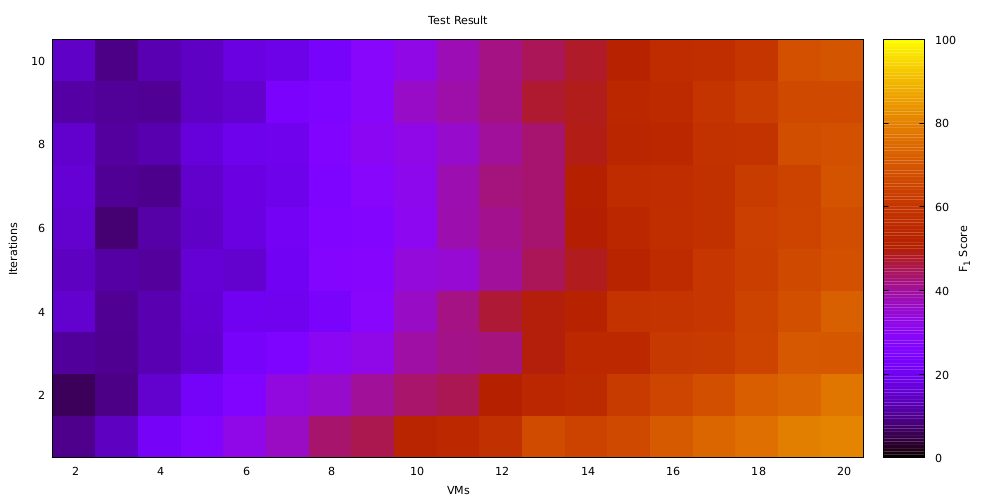
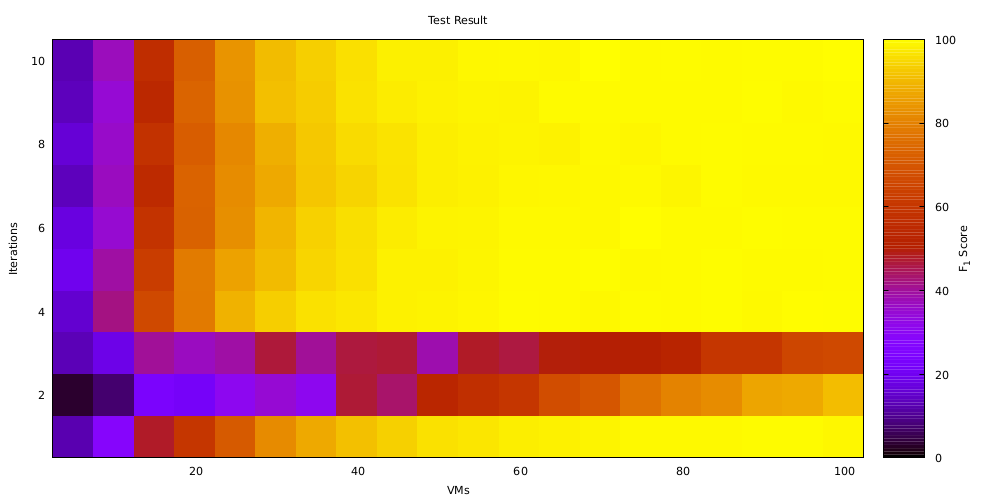
Update graph

diff --git a/README.md b/README.md
@@ -70,4 +70,4 @@ Testing an RCA strategy and configuration is done nearly as above:
 
 ![Example Result Graph](example_graph.png)
 
-In this graph, light yellow marks 100% F1 score, and where it gets darker, the F1-score decreases, indicating that performance changes are either overlooked or detected falsely.  Since we never have light yellow, even with the maximum configuration of 20 VMs and 10 iterations, the change measured here could not be identified safely.
+In this graph, light yellow marks 100% F1 score, and where it gets darker, the F1-score decreases, indicating that performance changes are either overlooked or detected falsely.  This graph indicates that roughly 50 VMs are necessary to detect the performance change safely, either with only one iteration (so before warmup) or with more than 4 iterations (after warmup). For 2 and 3 iterations, the performance change is not detectable (due to warmup).
